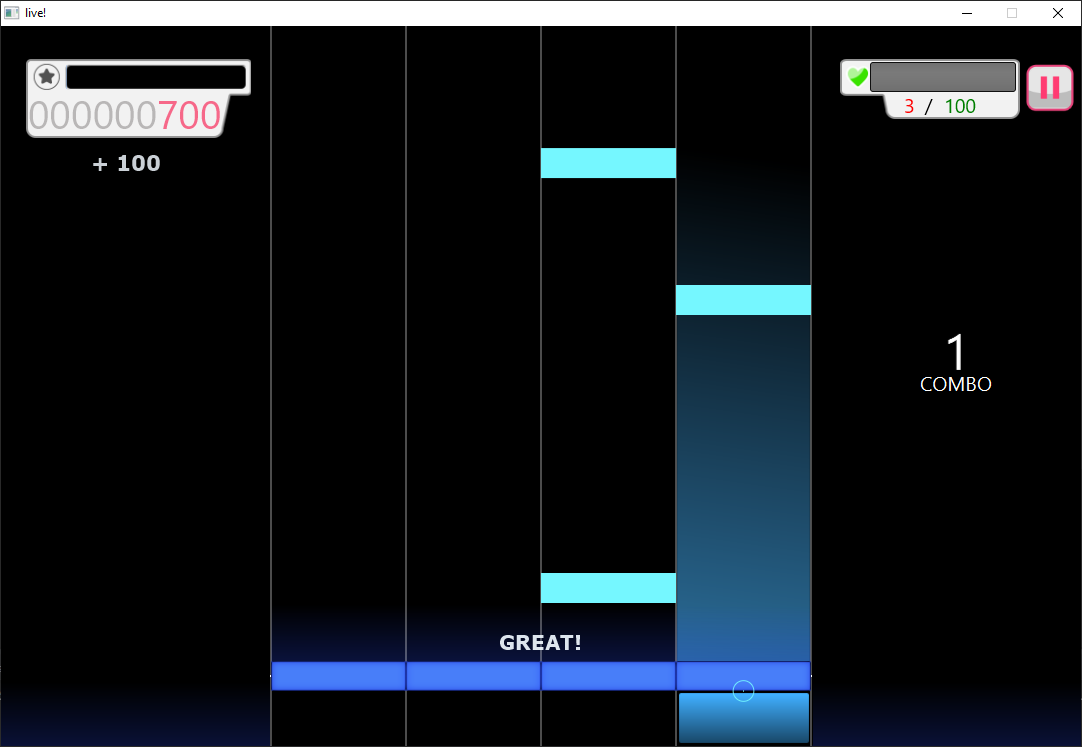
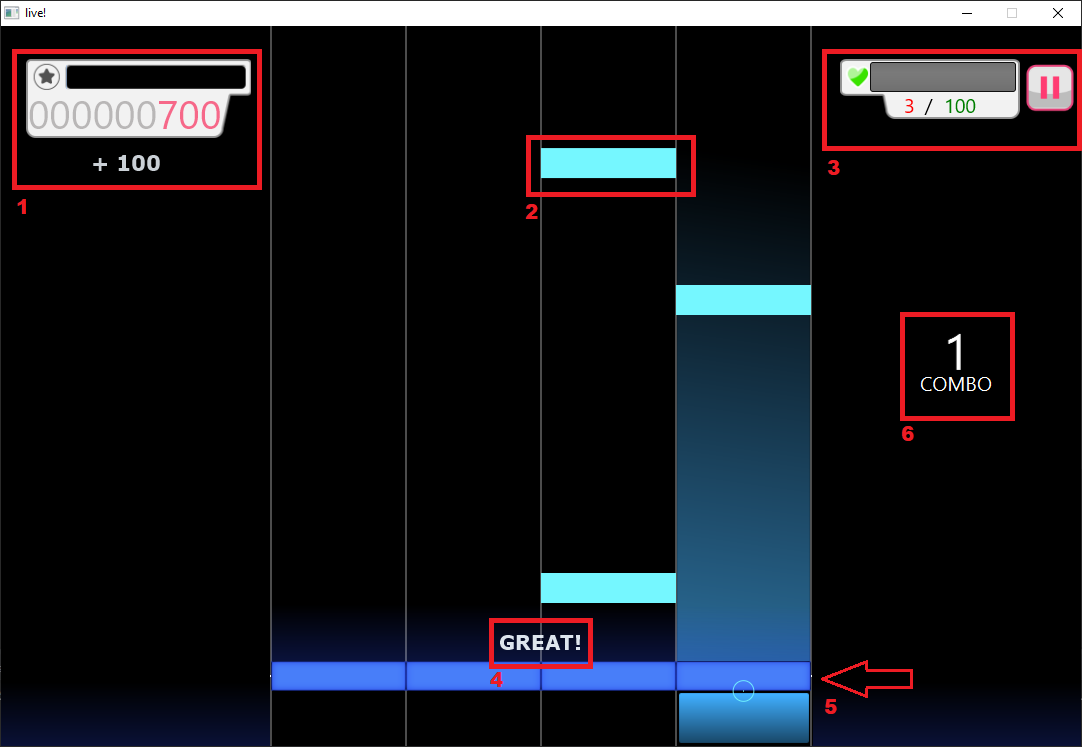
Fix game image path

diff --git a/README.md b/README.md
@@ -85,7 +85,7 @@ Agora, no menu principal, será apresentado 4 botões, além de dados sobre suas
 ## Como jogar
 Caso esteja começando nos jogos de ritmo, a premissa é bem simples: clique na tecla correspondente à faixa em que a nota está chegando. Explicando um pouco mais sobre cada elemento do jogo:
 
-![Add](/docs/img/game1.PNG "Game")
+![Game](/docs/img/game.PNG "Game")
 
 1. **Pontuação:** Será mostrada sua pontuação total até agora, acertar as notas fará com que sua pontuação aumente!
 2. **Nota:** É o elemento que deve ter sua total atenção, a hora correta de pressionar o botão da faixa é no momento em que a nota se encontra na linha de julgamento.
